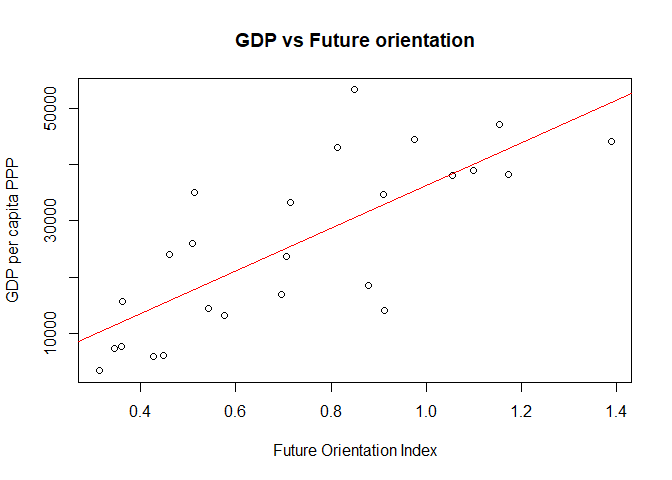
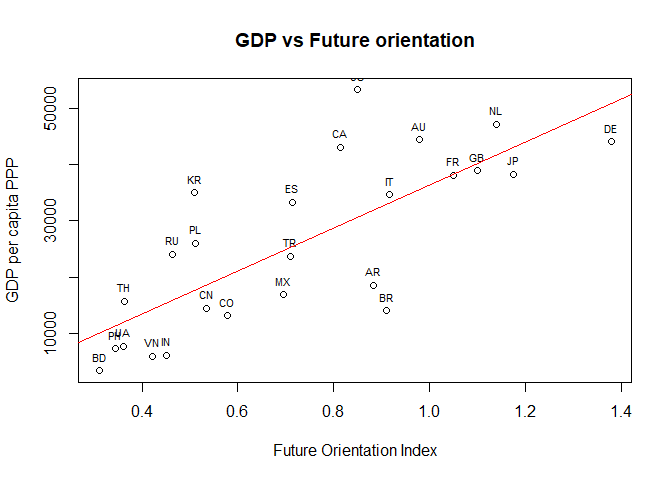
improved plots

diff --git a/GDP and Future Orientation/GDP_and_Future_Orientation.md b/GDP and Future Orientation/GDP_and_Future_Orientation.md
@@ -149,7 +149,7 @@ Log in to google using your username and password. code not shown.
 
     ## Loading required package: devtools
 
-    ## Skipping install of 'gtrendsR' from a github remote, the SHA1 (6cc120f4) has not changed since last install.
+    ## Skipping install of 'gtrendsR' from a github remote, the SHA1 (0165d264) has not changed since last install.
     ##   Use `force = TRUE` to force installation
 
     ## Loading required package: gtrendsR
@@ -178,55 +178,55 @@ for(current_country in table[,"iso2c"])
 ```
 
     ## [1] "AR"
-    ## [1] 0.8791045
+    ## [1] 0.8827068
     ## [1] "AU"
-    ## [1] 0.9743291
+    ## [1] 0.9790454
     ## [1] "BD"
-    ## [1] 0.313314
+    ## [1] 0.3104197
     ## [1] "BR"
-    ## [1] 0.9115169
+    ## [1] 0.909732
     ## [1] "CA"
-    ## [1] 0.8142494
+    ## [1] 0.8132992
     ## [1] "CN"
-    ## [1] 0.5427632
+    ## [1] 0.5336948
     ## [1] "CO"
-    ## [1] 0.5757576
+    ## [1] 0.5783866
     ## [1] "DE"
-    ## [1] 1.38796
+    ## [1] 1.378913
     ## [1] "ES"
     ## [1] 0.7142857
     ## [1] "FR"
-    ## [1] 1.055313
+    ## [1] 1.049927
     ## [1] "GB"
-    ## [1] 1.099424
+    ## [1] 1.100865
     ## [1] "IN"
-    ## [1] 0.4487847
+    ## [1] 0.4503883
     ## [1] "IT"
-    ## [1] 0.9098712
+    ## [1] 0.9156118
     ## [1] "JP"
-    ## [1] 1.172336
+    ## [1] 1.174107
     ## [1] "KR"
-    ## [1] 0.5128032
+    ## [1] 0.5088874
     ## [1] "MX"
-    ## [1] 0.6952247
+    ## [1] 0.6951049
     ## [1] "NL"
-    ## [1] 1.154446
+    ## [1] 1.140458
     ## [1] "PH"
-    ## [1] 0.3449782
+    ## [1] 0.3443766
     ## [1] "PL"
-    ## [1] 0.5089202
+    ## [1] 0.5103578
     ## [1] "RU"
-    ## [1] 0.4608896
+    ## [1] 0.4633385
     ## [1] "TH"
-    ## [1] 0.3623932
+    ## [1] 0.3622942
     ## [1] "TR"
-    ## [1] 0.7066116
+    ## [1] 0.7091413
     ## [1] "UA"
-    ## [1] 0.3592233
+    ## [1] 0.3613445
     ## [1] "US"
-    ## [1] 0.8492063
+    ## [1] 0.8498024
     ## [1] "VN"
-    ## [1] 0.4278884
+    ## [1] 0.4226804
 
 ``` r
 #table = table[complete.cases(table),]
@@ -247,21 +247,22 @@ summary(reg)
     ## 
     ## Residuals:
     ##    Min     1Q Median     3Q    Max 
-    ## -18857  -6956  -1396   7893  22765 
+    ## -18848  -6734  -1525   7860  22692 
     ## 
     ## Coefficients:
     ##             Estimate Std. Error t value Pr(>|t|)    
-    ## (Intercept)    -1838       5289  -0.348    0.731    
-    ## FOI            38089       6730   5.659 9.23e-06 ***
+    ## (Intercept)    -1904       5293  -0.360    0.722    
+    ## FOI            38226       6747   5.666 9.08e-06 ***
     ## ---
     ## Signif. codes:  0 '***' 0.001 '**' 0.01 '*' 0.05 '.' 0.1 ' ' 1
     ## 
     ## Residual standard error: 10010 on 23 degrees of freedom
-    ## Multiple R-squared:  0.582,  Adjusted R-squared:  0.5639 
-    ## F-statistic: 32.03 on 1 and 23 DF,  p-value: 9.233e-06
+    ## Multiple R-squared:  0.5826, Adjusted R-squared:  0.5645 
+    ## F-statistic:  32.1 on 1 and 23 DF,  p-value: 9.083e-06
 
 ``` r
 plot(table$FOI, table$NY.GDP.PCAP.PP.KD, main='GDP vs Future orientation', ylab='GDP per capita PPP', xlab='Future Orientation Index')
+text(table$FOI, table$NY.GDP.PCAP.PP.KD, labels=table$iso2c, cex= 0.7, pos=3)
 abline(reg, col='red')
 ```
 
